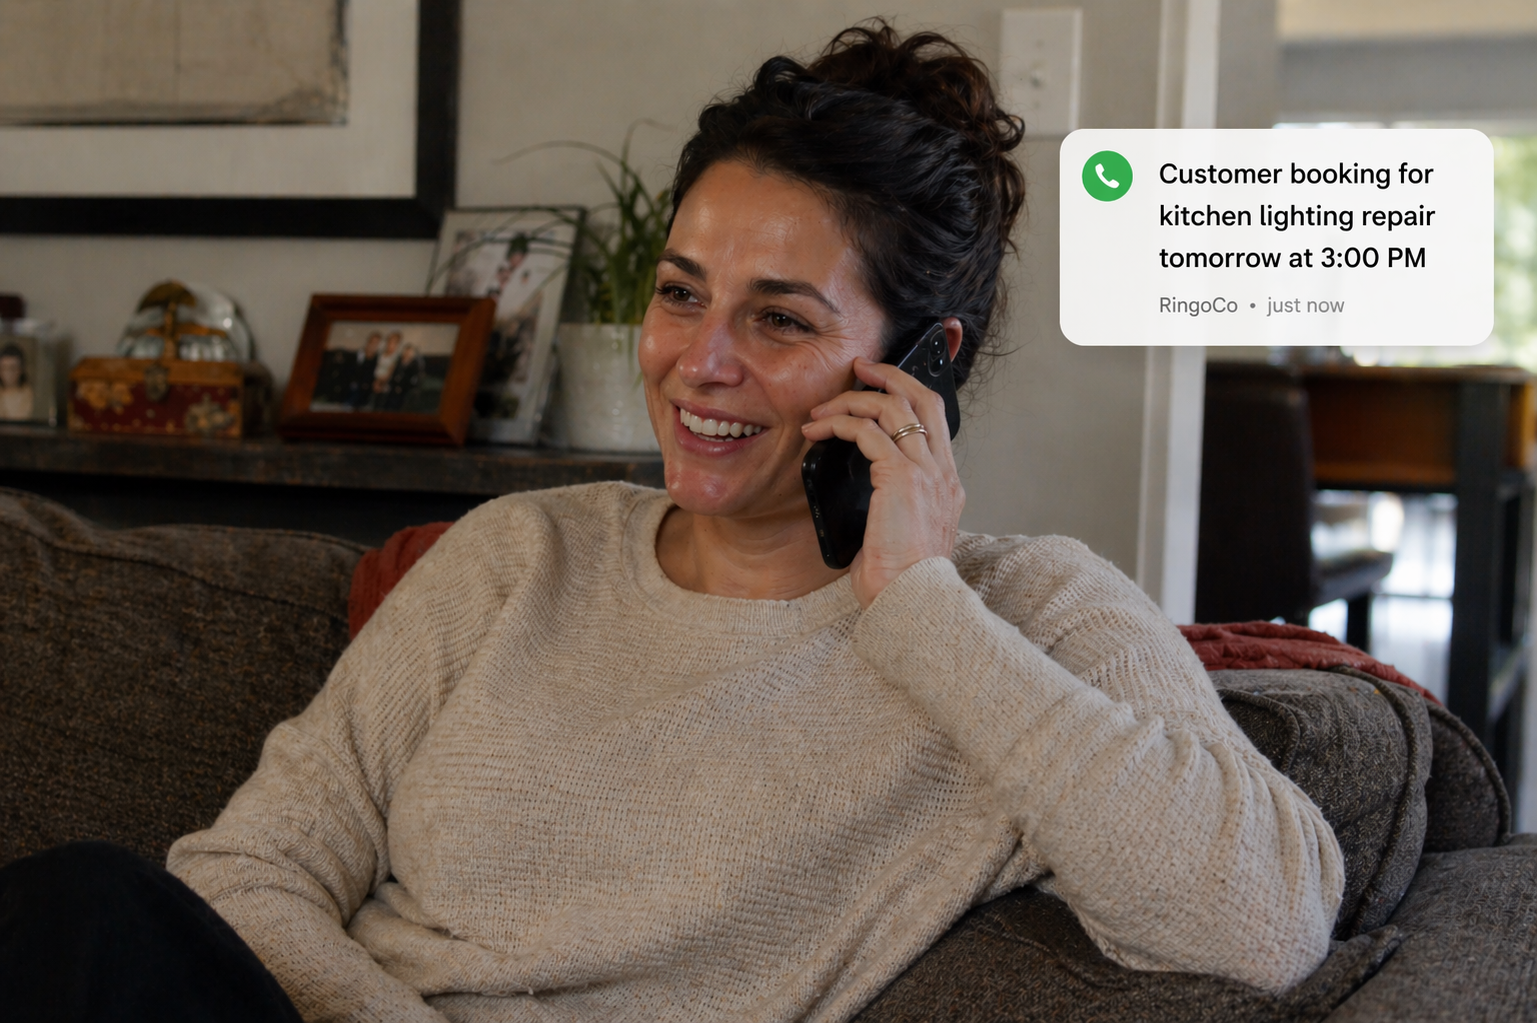
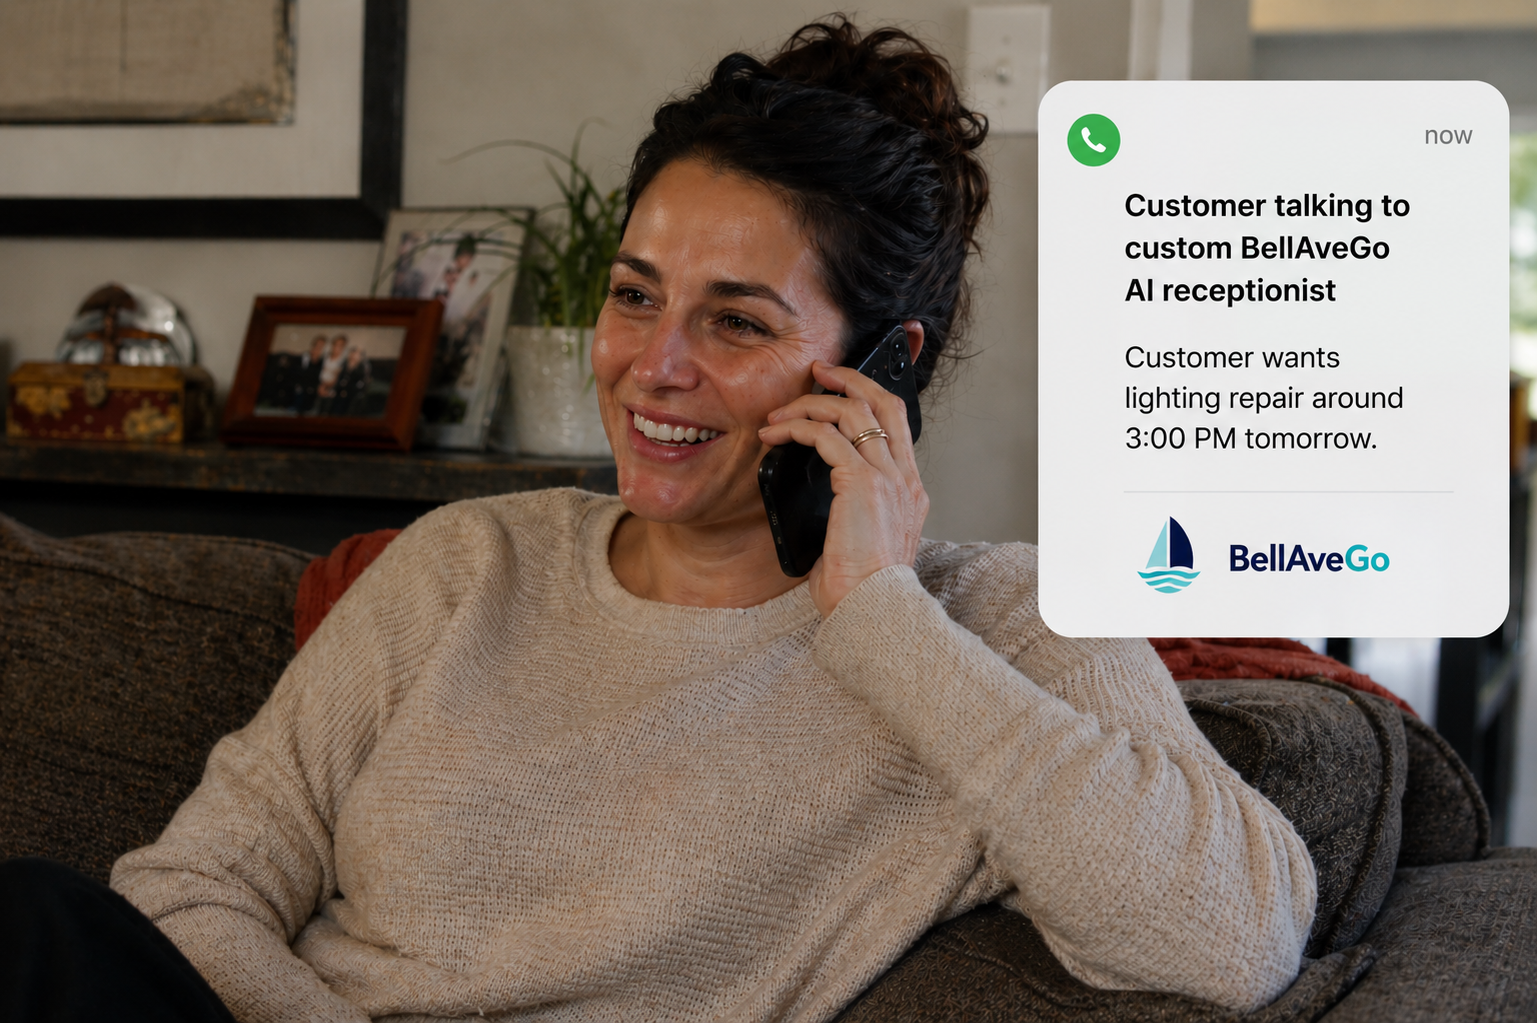
Swap image captions + push updated customer.png and electrician.png

diff --git a/src/app/page.tsx b/src/app/page.tsx
@@ -202,15 +202,15 @@ export default function HomePage() {
             <div style={{ position: 'relative', borderRadius: 20, overflow: 'hidden', boxShadow: '0 16px 50px rgba(11,31,58,0.13)' }}>
               <Image src="/customer.png" alt="Contractor on the job" width={600} height={420} style={{ width: '100%', height: 340, objectFit: 'cover', display: 'block' }} />
               <div style={{ position: 'absolute', bottom: 0, left: 0, right: 0, background: 'linear-gradient(to top, rgba(11,31,58,0.88) 0%, transparent 100%)', padding: '36px 26px 22px' }}>
-                <p style={{ color: '#fff', fontWeight: 700, fontSize: 15, margin: 0 }}>📍 Contractor can&apos;t answer</p>
-                <p style={{ color: 'rgba(255,255,255,0.7)', fontSize: 13, margin: '5px 0 0' }}>Phone rings while you&apos;re on the job.</p>
+                <p style={{ color: '#fff', fontWeight: 700, fontSize: 15, margin: 0 }}>💬 Customer gets handled instantly</p>
+                <p style={{ color: 'rgba(255,255,255,0.7)', fontSize: 13, margin: '5px 0 0' }}>Booked, confirmed, and reminded automatically.</p>
               </div>
             </div>
             <div style={{ position: 'relative', borderRadius: 20, overflow: 'hidden', boxShadow: '0 16px 50px rgba(11,31,58,0.13)' }}>
               <Image src="/electrician.png" alt="Customer getting confirmation" width={600} height={420} style={{ width: '100%', height: 340, objectFit: 'cover', display: 'block' }} />
               <div style={{ position: 'absolute', bottom: 0, left: 0, right: 0, background: 'linear-gradient(to top, rgba(11,31,58,0.88) 0%, transparent 100%)', padding: '36px 26px 22px' }}>
-                <p style={{ color: '#fff', fontWeight: 700, fontSize: 15, margin: 0 }}>💬 Customer gets handled instantly</p>
-                <p style={{ color: 'rgba(255,255,255,0.7)', fontSize: 13, margin: '5px 0 0' }}>Booked, confirmed, and reminded automatically.</p>
+                <p style={{ color: '#fff', fontWeight: 700, fontSize: 15, margin: 0 }}>📍 Contractor can&apos;t answer</p>
+                <p style={{ color: 'rgba(255,255,255,0.7)', fontSize: 13, margin: '5px 0 0' }}>Phone rings while you&apos;re on the job.</p>
               </div>
             </div>
           </div>